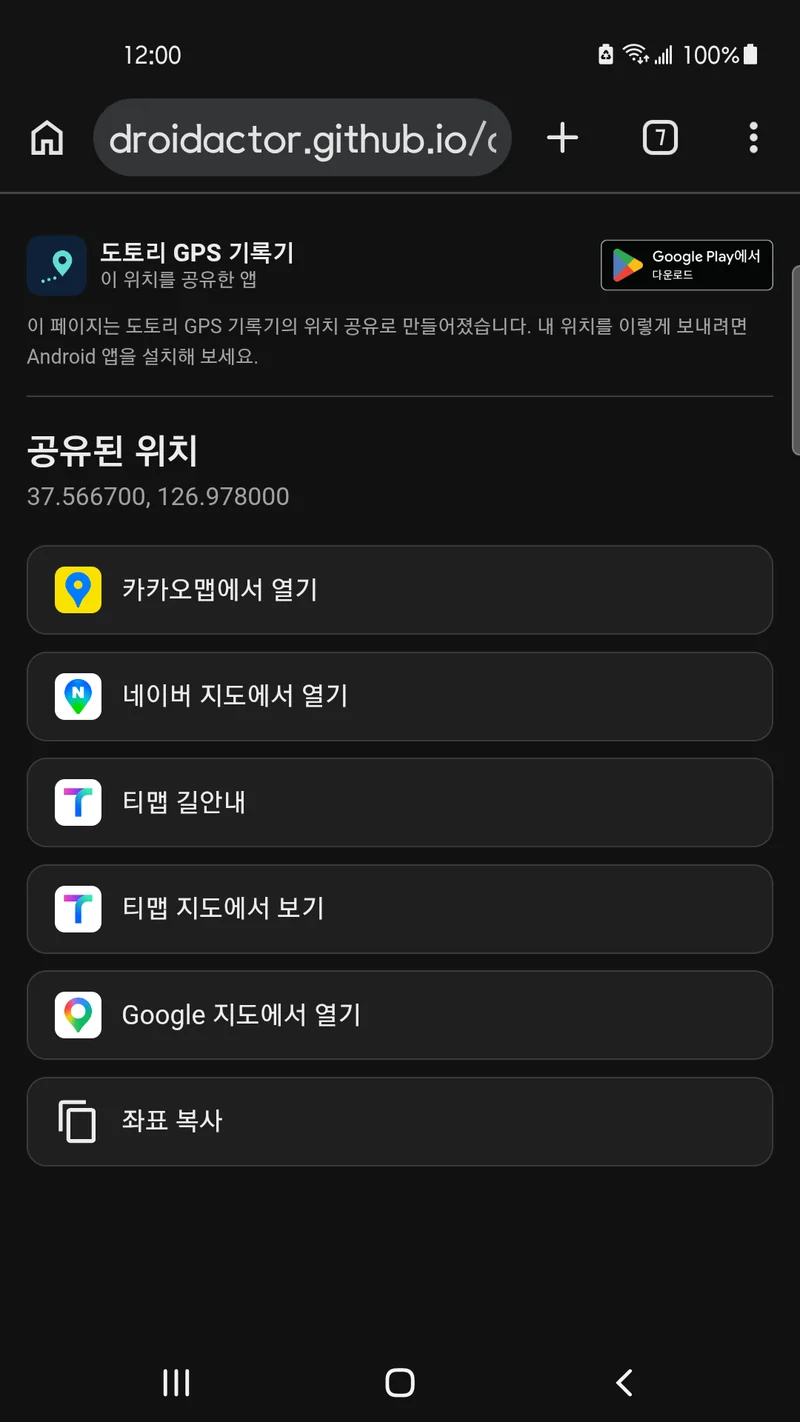
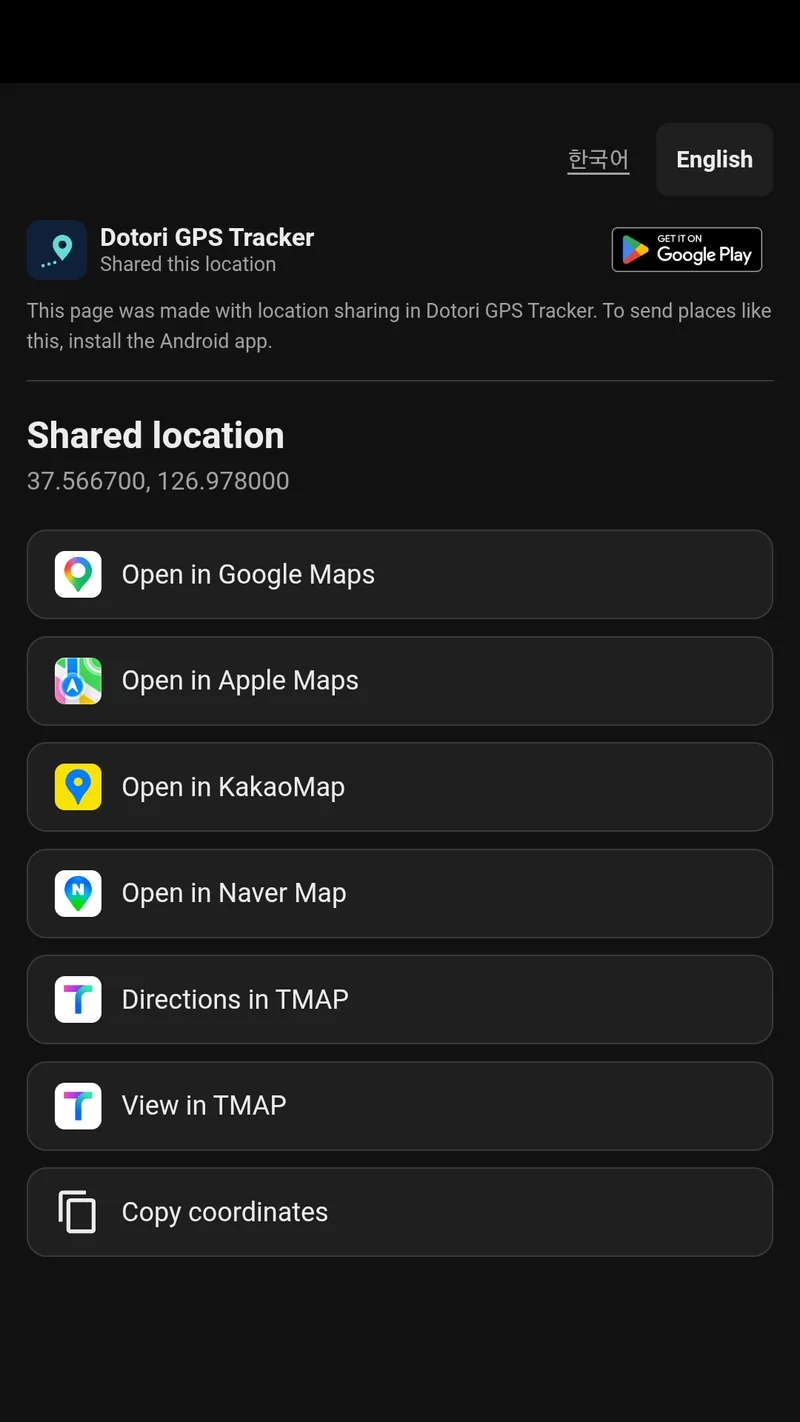
GPS 공유 페이지 언어 전환과 Apple Maps 추가
- 공유 좌표 형식을 유지하며 수신자 언어 선택과 기억 지원
- Apple Maps 연결과 한영 공유 화면 갱신

diff --git a/at/index.html b/at/index.html
@@ -8,10 +8,10 @@
 <meta name="color-scheme" content="dark light">
 <link rel="icon" href="data:,">
 <title>Shared location · 공유된 위치</title>
-<meta name="description" content="Open a shared location in KakaoMap, Naver Map, TMAP or Google Maps.">
+<meta name="description" content="Open a shared location in Google Maps, Apple Maps, KakaoMap, Naver Map or TMAP.">
 <meta property="og:type" content="website">
 <meta property="og:title" content="Shared location · 공유된 위치">
-<meta property="og:description" content="Open in KakaoMap, Naver Map, TMAP or Google Maps · 카카오맵·네이버 지도·티맵·Google 지도에서 열기">
+<meta property="og:description" content="Open in Google Maps, Apple Maps, KakaoMap, Naver Map or TMAP · Google 지도·Apple 지도·카카오맵·네이버 지도·티맵에서 열기">
 <meta property="og:url" content="https://droidactor.github.io/at/">
 <meta property="og:image" content="https://droidactor.github.io/assets/icons/gps.png">
 <!--
@@ -30,6 +30,11 @@
   body { margin: 0; background: var(--bg); color: var(--fg);
          font-family: system-ui, -apple-system, "Segoe UI", Roboto, "Noto Sans KR", sans-serif; }
   main { max-width: 480px; margin: 0 auto; padding: 24px 16px 32px; }
+  .languages { display: flex; justify-content: flex-end; gap: 4px; margin: 0 0 12px; }
+  .languages a { display: inline-flex; align-items: center; min-height: 44px; padding: 8px 12px;
+                 border-radius: 8px; color: var(--muted); font-size: 14px; text-underline-offset: 3px; }
+  .languages a[aria-current="page"] { background: var(--card); color: var(--fg); font-weight: 600; text-decoration: none; }
+  a:focus-visible, button:focus-visible { outline: 2px solid var(--accent); outline-offset: 3px; }
   h1 { font-size: 22px; margin: 0 0 6px; word-break: break-word; }
   .coords { color: var(--muted); font-size: 15px; margin: 0 0 20px; font-variant-numeric: tabular-nums; }
   .brand { display: flex; align-items: center; gap: 10px; margin: 0 0 8px; }
@@ -53,6 +58,10 @@
 </head>
 <body>
 <main>
+  <nav class="languages" aria-label="Language / 언어">
+    <a id="language-ko" lang="ko" hreflang="ko">한국어</a>
+    <a id="language-en" lang="en" hreflang="en">English</a>
+  </nav>
   <header class="brand" id="brand"></header>
   <p class="promo" id="promo"></p>
   <h1 id="title"></h1>
@@ -64,18 +73,36 @@
 <script>
 (function () {
   'use strict';
-  var KO = /^ko\b/i.test(navigator.language || '');
+  // A shared location stays language-neutral unless its recipient chooses a language.
+  // Promotional captures can use ?lang=en before the permanent #1,... location payload.
+  var languageKey = 'dotori-at-language';
+  function supportedLanguage(value) { return value === 'ko' || value === 'en' ? value : null; }
+  var savedLanguage = null;
+  try { savedLanguage = supportedLanguage(localStorage.getItem(languageKey)); } catch (err) { /* Storage can be blocked. */ }
+  var language = supportedLanguage(new URLSearchParams(location.search).get('lang')) || savedLanguage ||
+    (/^ko\b/i.test(navigator.language || '') ? 'ko' : 'en');
+  var KO = language === 'ko';
+  ['ko', 'en'].forEach(function (value) {
+    var choice = document.getElementById('language-' + value);
+    var url = new URL(location.href);
+    url.searchParams.set('lang', value);
+    choice.href = url.href; // Preserve coordinates, encoded names and relay parameters verbatim in the hash.
+    if (value === language) choice.setAttribute('aria-current', 'page');
+    choice.addEventListener('click', function () {
+      try { localStorage.setItem(languageKey, value); } catch (err) { /* The URL still carries the choice. */ }
+    });
+  });
   var T = KO ? {
     shared: '공유된 위치', invalid: '잘못된 링크입니다.', copy: '좌표 복사', copied: '좌표를 복사했습니다.',
     kakao: '카카오맵에서 열기', naver: '네이버 지도에서 열기', tmapRoute: '티맵 길안내', tmapView: '티맵 지도에서 보기',
-    google: 'Google 지도에서 열기', appName: '도토리 GPS 기록기', sharedBy: '이 위치를 공유한 앱', product: '/ko/apps/gps/',
+    google: 'Google 지도에서 열기', apple: 'Apple 지도에서 열기', appName: '도토리 GPS 기록기', sharedBy: '이 위치를 공유한 앱', product: '/ko/apps/gps/',
     download: 'Google Play에서 다운로드',
     promo: '이 페이지는 도토리 GPS 기록기의 위치 공유로 만들어졌습니다.',
     install: '내 위치를 이렇게 보내려면 Android 앱을 설치해 보세요.'
   } : {
     shared: 'Shared location', invalid: 'This link is not valid.', copy: 'Copy coordinates', copied: 'Coordinates copied.',
     kakao: 'Open in KakaoMap', naver: 'Open in Naver Map', tmapRoute: 'Directions in TMAP', tmapView: 'View in TMAP',
-    google: 'Open in Google Maps', appName: 'Dotori GPS Tracker', sharedBy: 'Shared this location', product: '/apps/gps/',
+    google: 'Open in Google Maps', apple: 'Open in Apple Maps', appName: 'Dotori GPS Tracker', sharedBy: 'Shared this location', product: '/apps/gps/',
     download: 'Get it on Google Play',
     promo: 'This page was made with location sharing in Dotori GPS Tracker.',
     install: 'To send places like this, install the Android app.'
@@ -167,7 +194,7 @@
     return fallback || null;
   }
 
-  // Icons are the apps' public Google Play listing icons (same files as the app's map menu, except Naver).
+  // Local listing icons: Google Play for Android maps, Apple's App Store for Apple Maps (id 915056765).
   var I = '/assets/icons/maps/';
   var kakao = [T.kakao, app('look?p=' + c, 'kakaomap', 'net.daum.android.map', kakaoWeb), I + 'kakao.png'];
   var naver = [T.naver, app('place?lat=' + p.lat + '&lng=' + p.lng + '&name=' + name + '&appname=com.droidactor.gps',
@@ -177,7 +204,10 @@
   var tmapView = [T.tmapView, app('viewmap?x=' + p.lng + '&y=' + p.lat + '&name=' + name,
     'tmap', 'com.skt.tmap.ku', null), I + 'tmap.png'];
   var google = [T.google, googleWeb, I + 'google.jpg'];
+  // HTTPS also offers a web map when the native Apple Maps app is unavailable.
+  var apple = [T.apple, 'https://maps.apple.com/?ll=' + e(c) + '&q=' + name, I + 'apple.png'];
   var order = KO ? [kakao, naver, tmapRoute, tmapView, google] : [google, kakao, naver, tmapRoute, tmapView];
+  order.splice(ios ? 0 : order.indexOf(google) + 1, 0, apple);
 
   function addText(el, text) {
     var s = document.createElement('span');

diff --git a/README.md b/README.md
@@ -85,9 +85,12 @@ Git으로 관리하며 기존 버전의 바이트를 덮어쓰지 않는다. Mob
                         (처리방침, 한국어는 #ko). Android 앱이 아니다 — 앱 허브·sitemap 제외, noindex
 /at/                    공유된 위치 열기 — Dotori GPS 공유 링크(`#1,<위도>,<경도>[,<이름>]`)를 받아 지도 앱 버튼을 보인다.
                         한 파일·외부 요청 없음·noindex·sitemap 제외. 링크 형식은 영구 약속이라 바꾸지 않는다
+                        한국어/English 전환, URL `?lang=ko|en` > 저장된 선택 > 브라우저 언어. 영문 촬영은 `?lang=en#1,...`.
+                        Google·Apple·카카오·네이버·TMAP 연결. iPhone/iPad는 Apple 먼저, 영문 그 밖의 기기는 Google 먼저
                         (정본: mobile 저장소 `apps/gps/docs/gps-app-design.md` §3-3)
 /assets/icons/maps/     `/at/` 버튼의 지도 앱 아이콘(각 앱의 공개 Google Play 등록정보 아이콘, 96px). gps 앱
                         `res/drawable-nodpi/ic_map_*` 와 같은 파일이고 네이버만 사이트에 따로 받았다
+                        Apple은 공식 App Store의 Apple Inc. `915056765` 아이콘을 96px PNG로 저장했다(2026-11-05, iTunes Lookup API)
 /assets/site.css        전 페이지 공용 스타일
 /assets/shots/<앱>/<로케일>/  앱 허브·제품 페이지 공용 800px WebP 축소본. 발행 자산이 아니라 파생물이다
 /404.html               없는 주소 → 양 언어 홈으로 안내 (GitHub Pages 가 도메인 전역에 사용)
